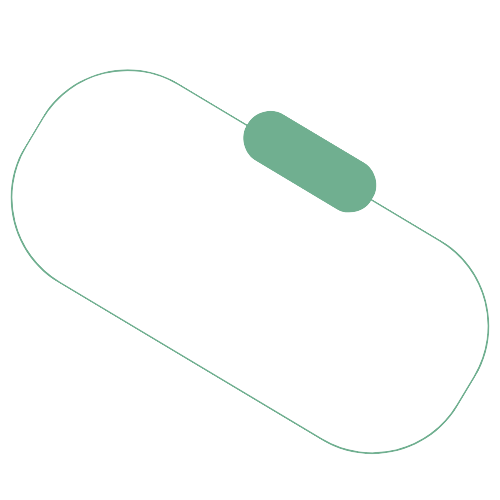
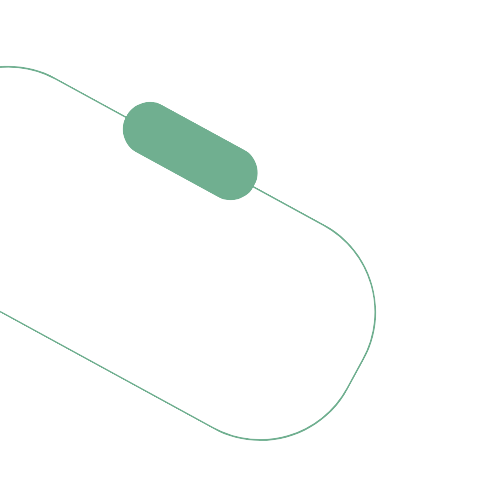
created CSS for greenPill and changed picture + done media queries for top and bottom left decorations

diff --git a/frontend/src/scss/graphicElements/_graphicElements.scss b/frontend/src/scss/graphicElements/_graphicElements.scss
@@ -7,6 +7,9 @@
   right: 100;
   bottom: 0; 
 }
+
+
+
 //traits on bottom left
 // .bottom-left-deco {
 //   transform: rotate(40deg);
@@ -137,12 +140,25 @@
 //   }
 // }
 
-// @media screen and (min-width: 768px) {
-//   .bottom-left-deco {
-//     top: 27rem;
-//     left: -2rem;
-//   }
+@media screen and (min-width: 768px) {
+  .bottom-left-deco {
+    height: 30rem;
+    width: 30rem;
+  }
+  .top-left-deco {
+    width: 25rem;
+    height: 25rem;
+    position:fixed;
+    right: 100;
+    top: 100px;
+  }
+}
 
+@media screen and (min-width: 1024px) {
+  .top-left-deco {
+    top:20px;
+  }
+}
 //   //pill on the top left
 
 //   .top-left-deco {
@@ -270,9 +286,3 @@
 //   }
 // }
 
-// @media screen and (min-width: 1024px) {
-//   .top-right-deco {
-//     left: 50vw;
-//     bottom: 0;
-//   }
-// }

diff --git a/frontend/src/components/graphicElements/GraphicElements.jsx b/frontend/src/components/graphicElements/GraphicElements.jsx
@@ -1,4 +1,5 @@
 import coloredTraits from "../../assets/colored_traits.png";
+import greenPill from "../../assets/green_pill.png";
 
 export default function graphicElements() {
   return (
@@ -8,6 +9,13 @@ export default function graphicElements() {
           className="bottom-left-deco"
           src={coloredTraits}
           alt="bottom left decorations"
+        />
+      </div>
+      <div>
+        <img
+          className="top-left-deco"
+          src={greenPill}
+          alt="top left decoration"
         />
       </div>
       {/* <div className="bottom-left-deco">

diff --git a/frontend/src/pages/Login.jsx b/frontend/src/pages/Login.jsx
@@ -42,7 +42,7 @@ export default function Login() {
 
   return (
     <>
-    <GraphicElements />
+      <GraphicElements />
       {openModal && <ModalEmail setOpenModal={setOpenModal} />}
       <div className="logInContainer">
         <form onSubmit={postUserInfos}>
